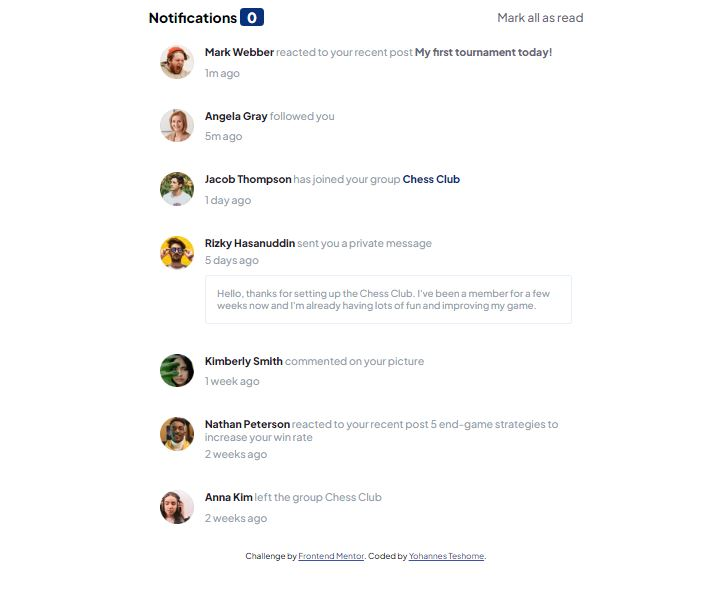
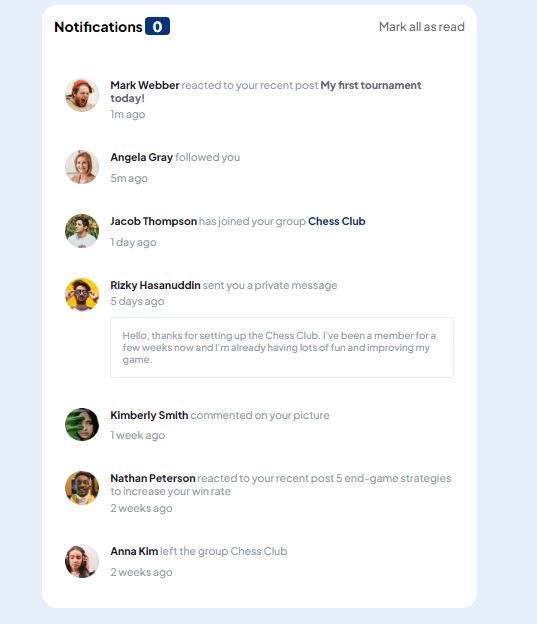
on Css body is modified and given a background

diff --git a/style.css b/style.css
@@ -26,6 +26,28 @@ html {
   font-family: "Plus Jakarta Sans", sans-serif;
   font-size: 16px;
 }
+body {
+  display: flex;
+  flex-direction: column;
+  min-height: 100vh;
+  justify-content: center;
+  align-items: center;
+  background-color: var(--lightGrayishBlue1);
+}
+main,
+header {
+  background-color: var(--white);
+  padding: 1rem;
+}
+main {
+  border-bottom-left-radius: 20px;
+  border-bottom-right-radius: 20px;
+}
+header {
+  border-top-left-radius: 20px;
+  border-top-right-radius: 20px;
+}
+
 .container {
   max-width: 330px;
   margin: 20px auto;
